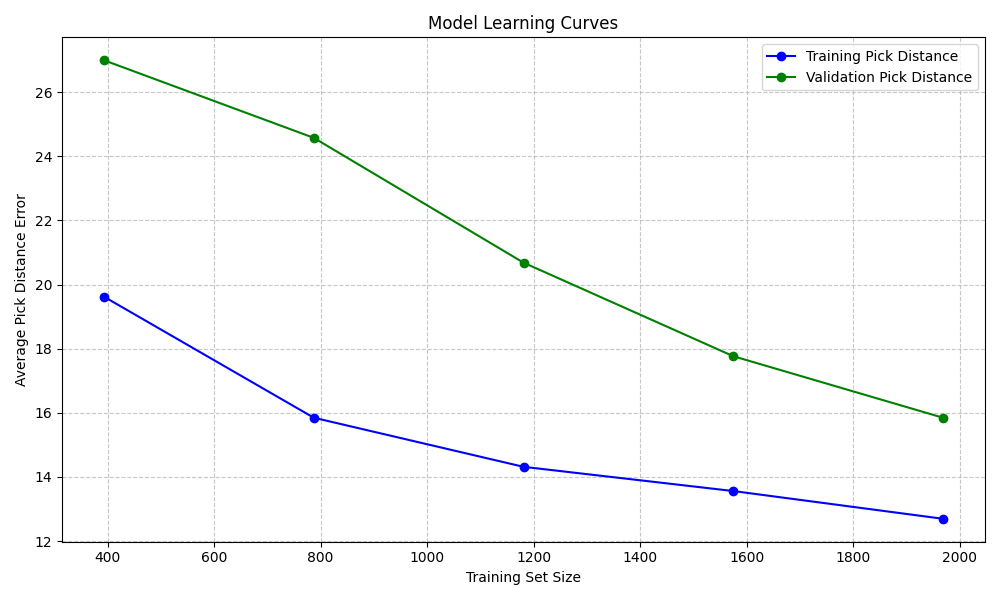
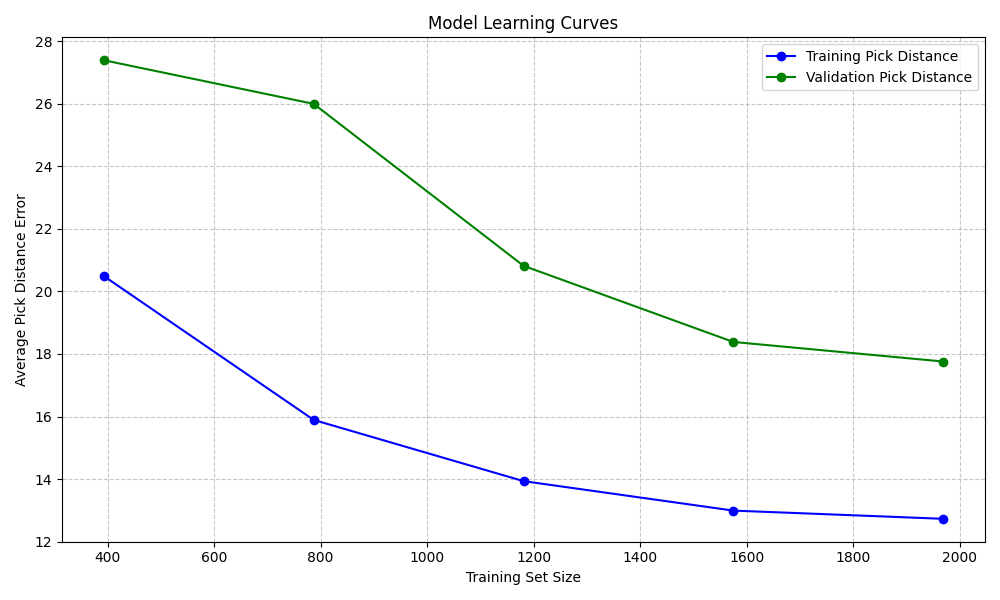
top 10 pick error

diff --git a/neural-network/neural_network_model.py b/neural-network/neural_network_model.py
@@ -371,7 +371,28 @@ def plot_learning_curves(train_sizes: List[int], train_losses: List[float], val_
     plt.close()
 
 
-def train_and_test_model(data_path: str, year: str, show_plots: bool = True) -> float:
+def calculate_top_10_error(actual_picks: np.ndarray, predicted_picks: np.ndarray) -> float:
+    """Calculate mean absolute error for top 10 picks only"""
+    top_10_mask = actual_picks <= 10
+    if not any(top_10_mask):
+        return 0.0
+    top_10_error = np.abs(
+        predicted_picks[top_10_mask] - actual_picks[top_10_mask])
+    return np.mean(top_10_error)
+
+
+def calculate_top_10_hit_rate(actual_picks: np.ndarray, predicted_picks: np.ndarray) -> float:
+    """Calculate percentage of correctly identified players in top 10"""
+    # Get indices of actual top 10 picks
+    actual_top_10 = set(np.where(actual_picks <= 10)[0])
+    # Get indices of predicted top 10 picks
+    pred_top_10 = set(np.argsort(predicted_picks)[:10])
+    # Calculate intersection (correctly identified players)
+    correct_picks = len(actual_top_10.intersection(pred_top_10))
+    return (correct_picks / 10) * 100
+
+
+def train_and_test_model(data_path: str, year: str, show_plots: bool = True) -> Tuple[float, float, float, pd.DataFrame]:
     test_file = f"all_players_career_stats_{year}.csv"
 
     # Load and preprocess data
@@ -452,14 +473,20 @@ def train_and_test_model(data_path: str, year: str, show_plots: bool = True) -> 
     # Calculate and display error metrics
     pick_error = np.abs(predicted_picks - actual_picks)
     mean_error = np.mean(pick_error)
-    print(f"Mean absolute pick error for test year {year}: {mean_error:.2f}\n")
+    top_10_error = calculate_top_10_error(actual_picks, predicted_picks)
+    top_10_hit_rate = calculate_top_10_hit_rate(actual_picks, predicted_picks)
+    print(f"Mean absolute pick error for test year {year}: {mean_error:.2f}")
+    print(f"Top 10 picks mean absolute error: {top_10_error:.2f}")
+    print(
+        f"Top 10 picks hit rate (correct predictions): {top_10_hit_rate:.1f}%\n")
+
     results_df = pd.DataFrame({
         "Player": player_names,
         "Actual Pick": actual_picks,
         "Predicted Pick": predicted_picks,
         "Pick Error": pick_error
     })
-    return mean_error, results_df
+    return mean_error, top_10_error, top_10_hit_rate, results_df
 
 
 def plot_feature_performance_curve(data_path: str, year: str):
@@ -544,23 +571,38 @@ def main():
     LOO = sys.argv[1] == "-loocv" if len(sys.argv) > 1 else False
 
     if LOO:
-        years = ["2006", "2007", "2008", "2009", "2011", "2012", "2013", "2014",
-                 "2016", "2017", "2018", "2019", "2021", "2022", "2023", "2024", ]
+        # years = ["2006", "2007", "2008", "2009", "2011", "2012", "2013", "2014",
+        #          "2016", "2017", "2018", "2019", "2021", "2022", "2023", "2024"]
+
+        years = ["2010", "2015", "2020", "2025"]
+
         errors = []
+        top_10_errors = []
+        top_10_hit_rates = []
         for year in years:
-            error, _ = train_and_test_model(data_path, year, show_plots=False)
+            error, top_10_error, hit_rate, _ = train_and_test_model(
+                data_path, year, show_plots=False)
             errors.append(error)
+            top_10_errors.append(top_10_error)
+            top_10_hit_rates.append(hit_rate)
 
         # Final report
         print("-" * 40)
-        for year in years:
-            print(f"Year {year} error: {errors[years.index(year)]:.2f}")
+        for i, year in enumerate(years):
+            print(
+                f"Year {year} - Overall error: {errors[i]:.2f}, Top 10 error: {top_10_errors[i]:.2f}, Hit rate: {top_10_hit_rates[i]:.1f}%")
         print(f"Average error across all years: {np.mean(errors):.2f}")
+        print(
+            f"Average top 10 error across all years: {np.mean(top_10_errors):.2f}")
+        print(f"Average top 10 hit rate: {np.mean(top_10_hit_rates):.1f}%")
         print(f"Standard deviation of error: {np.std(errors):.2f}")
+        print(
+            f"Standard deviation of top 10 error: {np.std(top_10_errors):.2f}")
+        print(
+            f"Standard deviation of hit rate: {np.std(top_10_hit_rates):.1f}%")
 
     else:
         train_and_test_model(data_path, "2025", show_plots=True)
-        # Add feature performance analysis
         # plot_feature_performance_curve(data_path, "2025")
 
 
